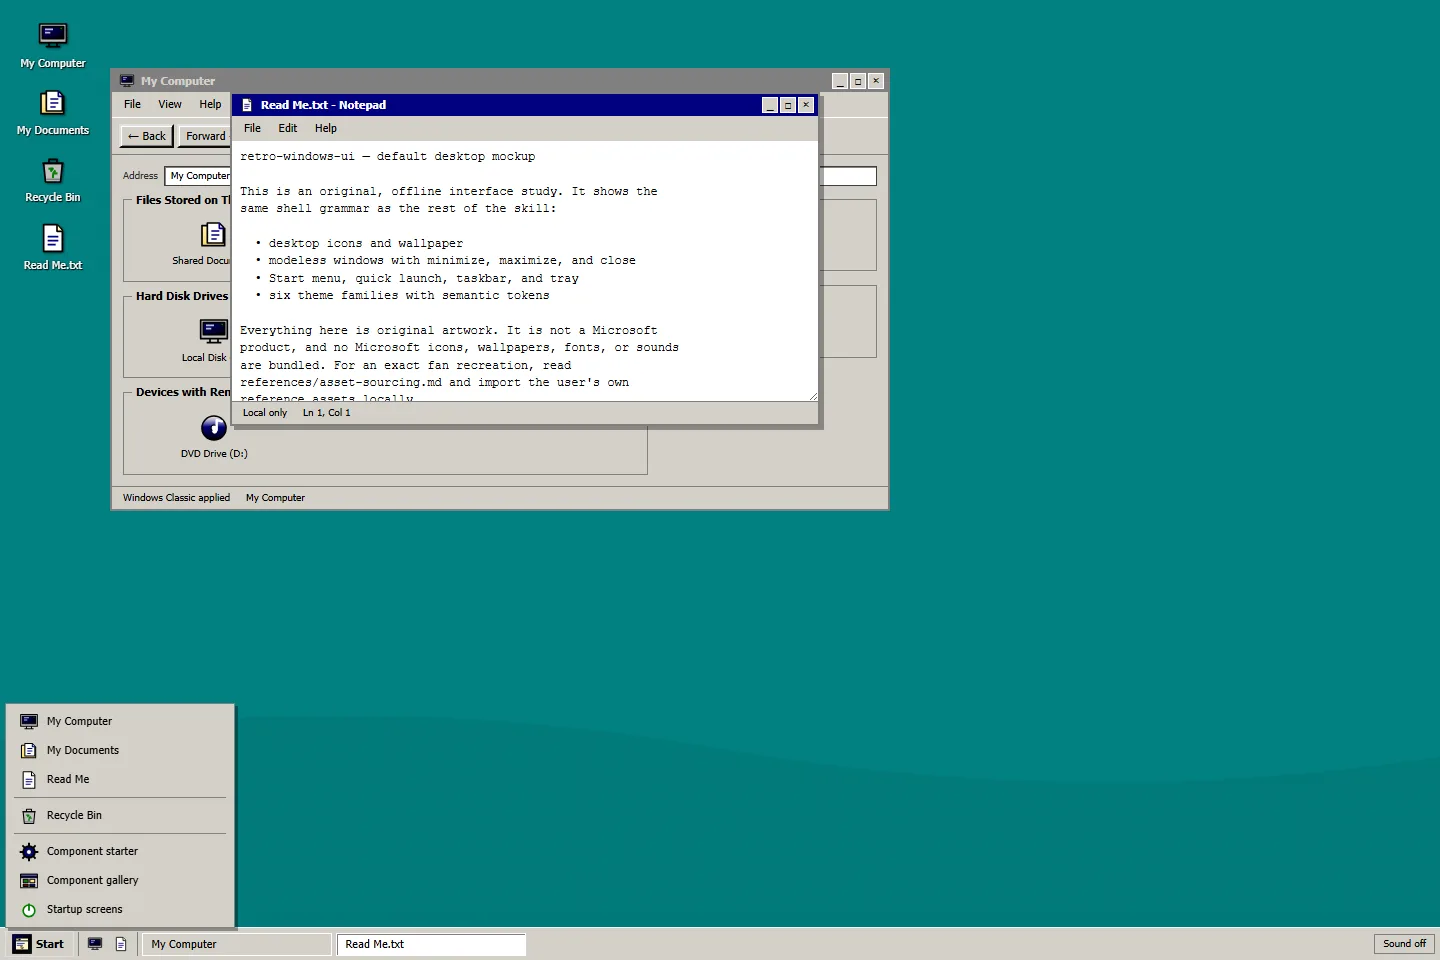
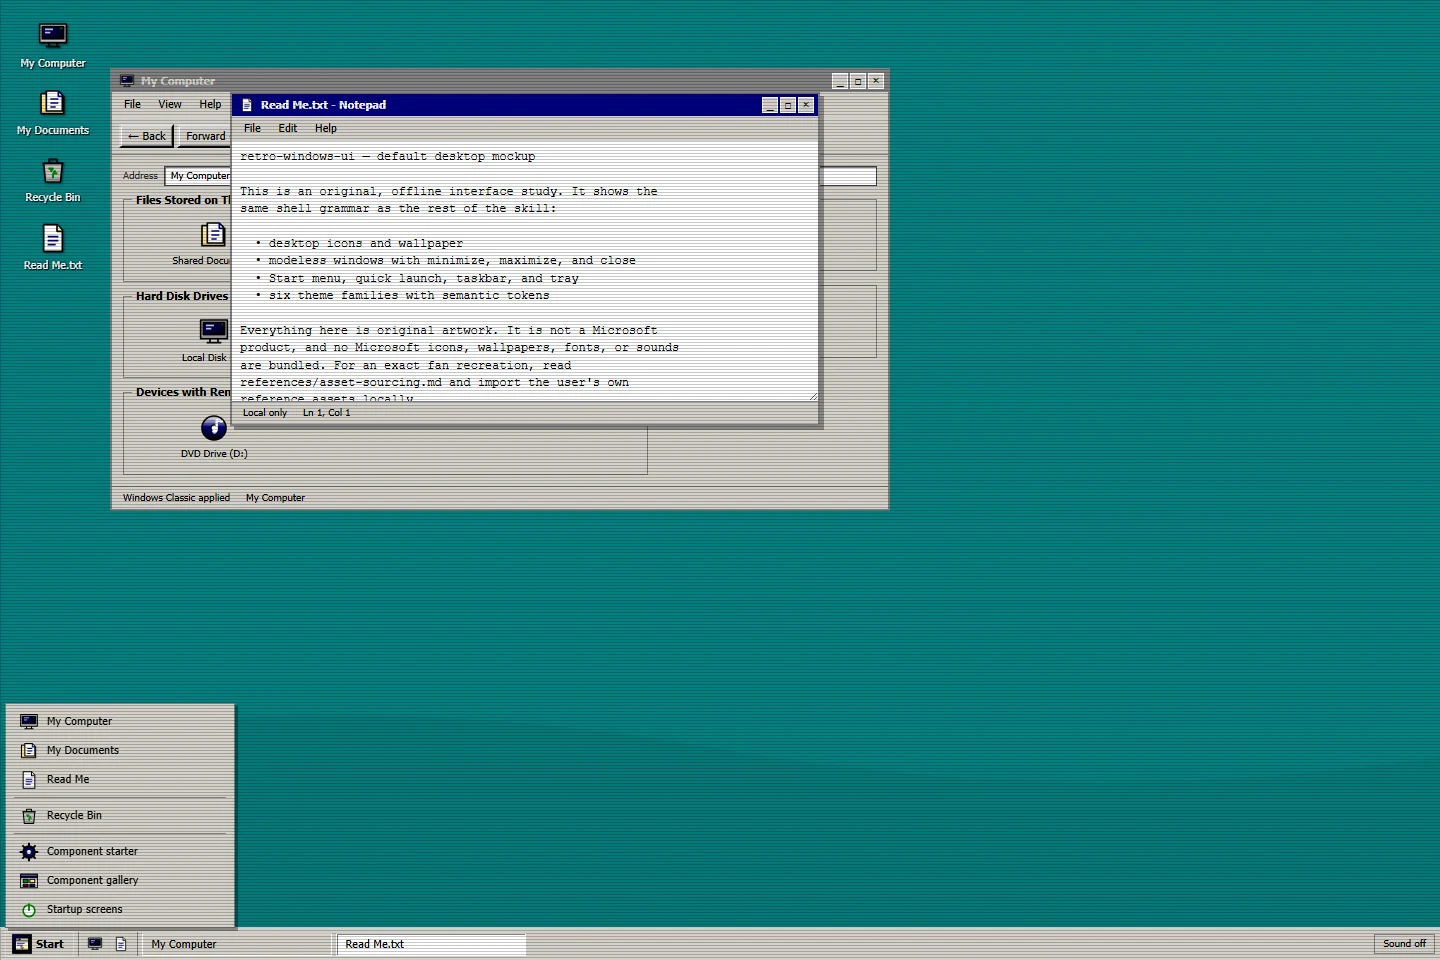
docs: add scanline treatment to README stills
Apply a presentation-only scanline overlay to the desktop, starter, and six theme screenshots, and note that the runtime stays clean.

Changed region(s): [[0.0, 0.0, 1.0, 0.5938], [0.0, 0.625, 1.0, 1.0], [0.4688, 0.7812, 1.0, 0.8438]]

diff --git a/README.md b/README.md
@@ -4,7 +4,7 @@
 
 A portable Agent Skill for designing, building, retrofitting, and reviewing retro Windows interfaces. It combines era-specific design guidance with complete original offline asset families, semantic tokens, a default Windows desktop mockup, startup-screen examples, an interactive gallery, and opt-in UI sound effects.
 
-Every interface image in this README is the bundled offline mockup or starter. No separate portfolio build is included or required.
+Every interface image in this README is the bundled offline mockup or starter. No separate portfolio build is included or required. README stills carry a presentation-only scanline overlay; the bundled interfaces remain clean unless a CRT effect is explicitly requested.
 
 ## Themes
 
